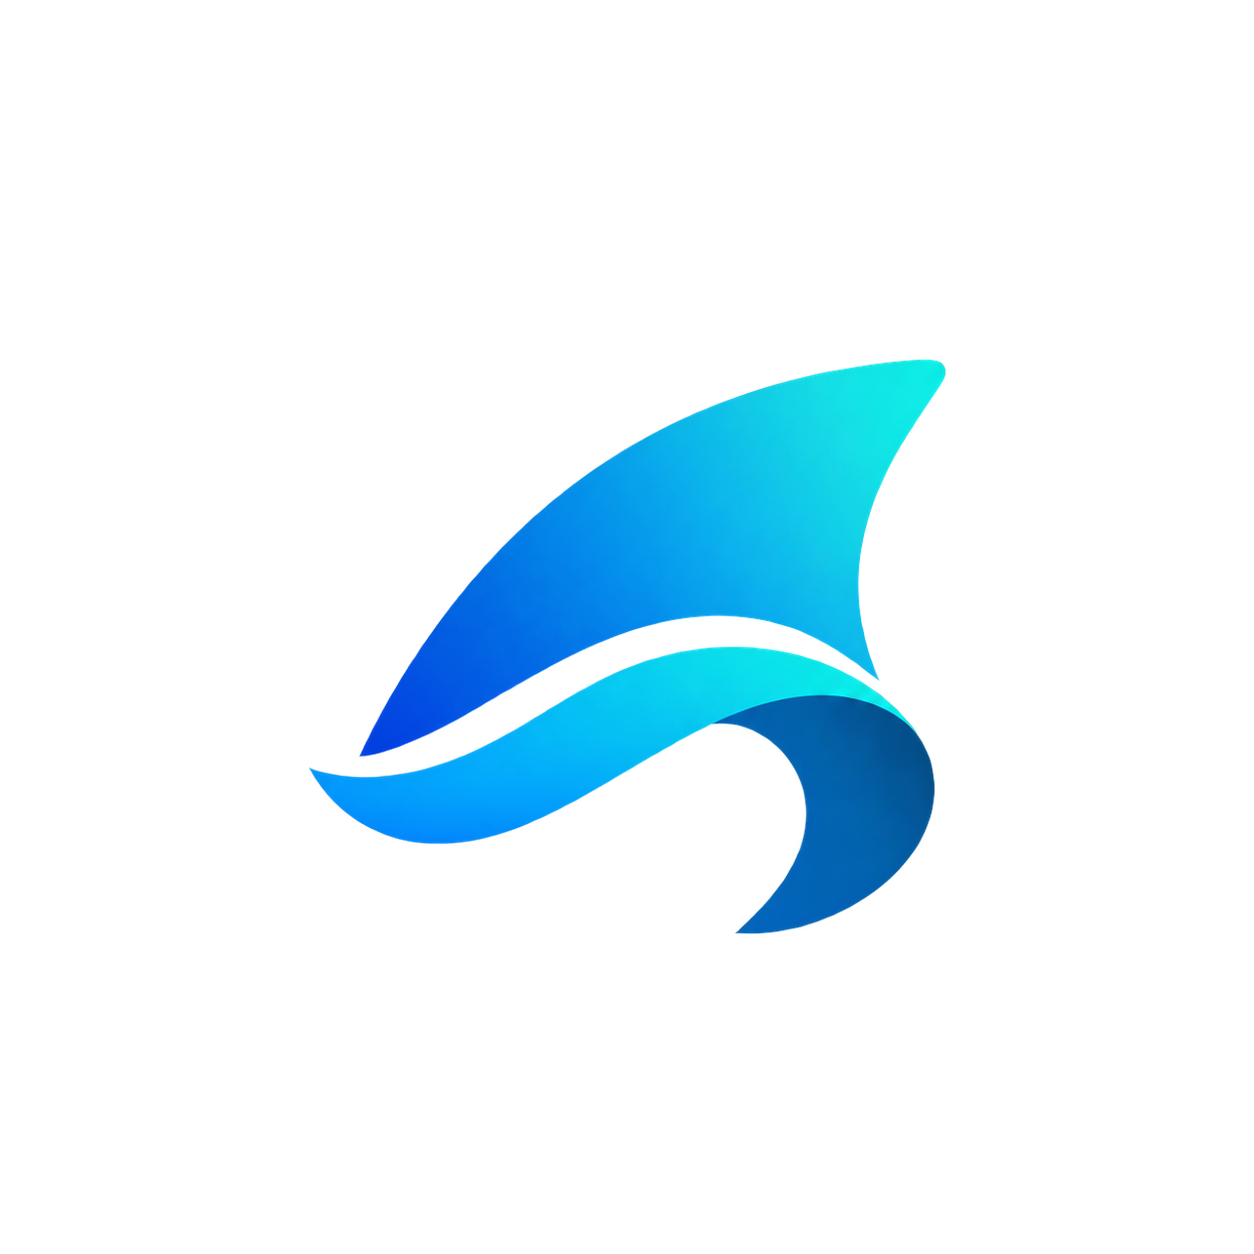
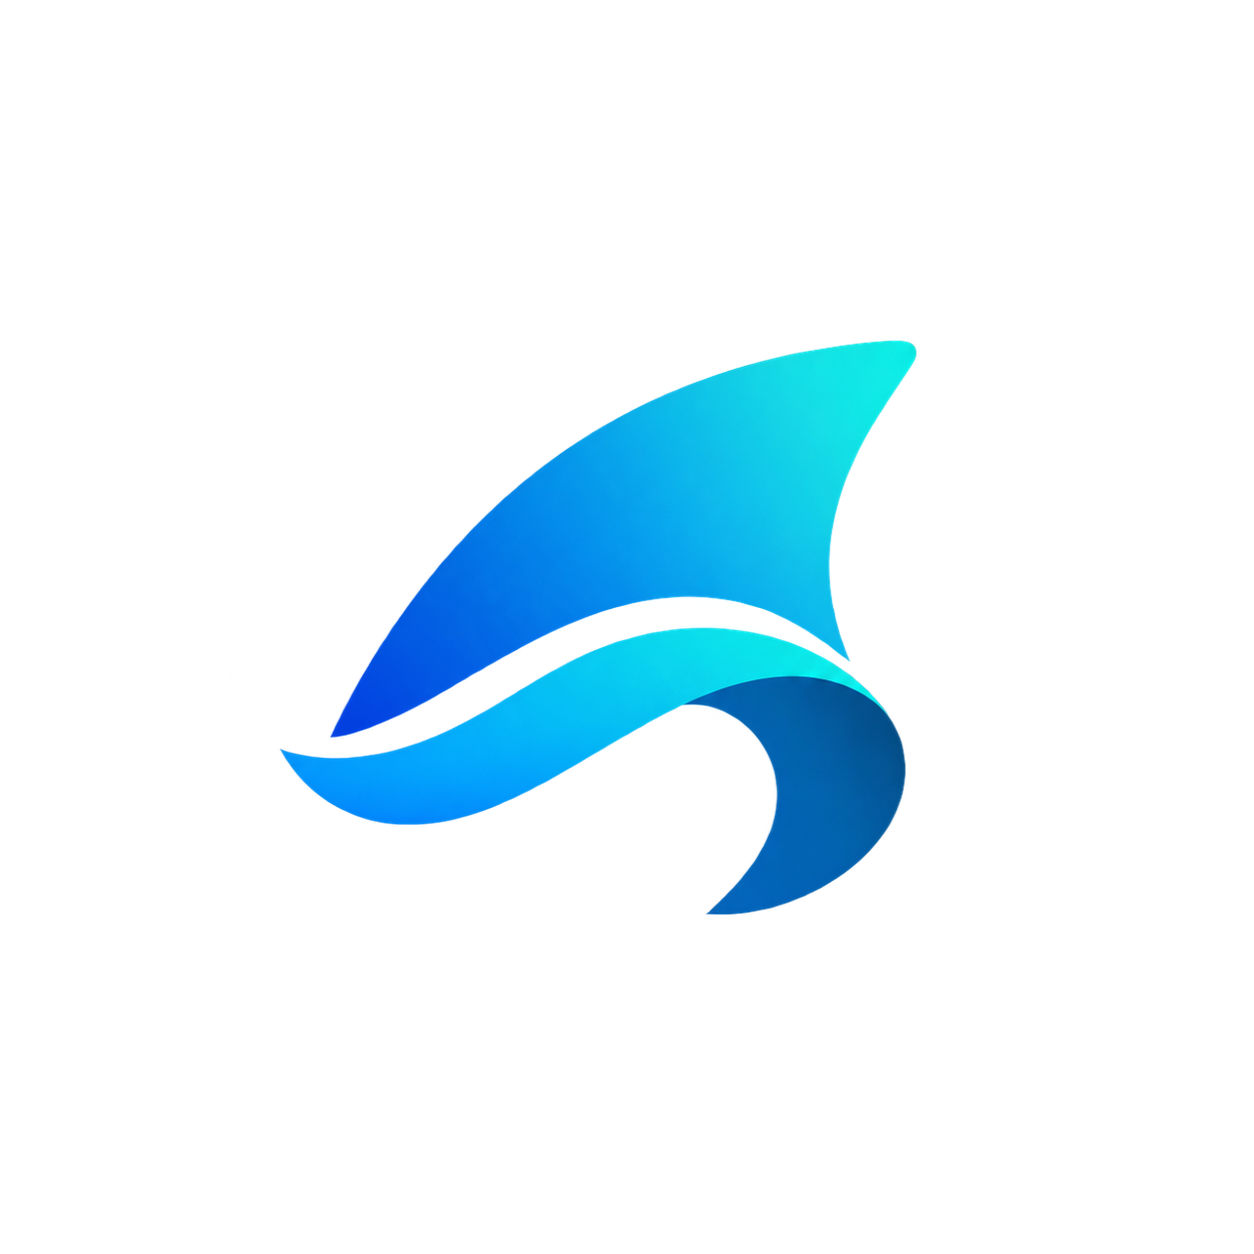
Brand: the fin optically centred in every image
The owner found the fin always felt off centre. Its box was centred, but
its tip is thin and its body and curl heavy, so its weight sat about
4.6% right of centre (9% in the favicon), and in turnfin.png it also sat
1.5% low. Every fin image is redrawn from the master with its optical
centre (midway between its box centre and its centre of mass, across)
and its box centre (down) in the middle, at each image's own size and
background: public/brand/turnfin.png, the favicon and Apple icon, and
Turnfin Me's icons. The favicon's fin is a little smaller (90% of the
square) so the shift does not clip its tip. The Academy site's icons
(on hold) are unchanged.

Changed region(s): [[0.2177, 0.2488, 0.7775, 0.7464]]

diff --git a/DESIGN.md b/DESIGN.md
@@ -145,7 +145,7 @@ Turnfin is one frame holding apps ([PRODUCT.md](PRODUCT.md)). The frame changes 
 ### Desktop (1100px and wider)
 
 - **Sidebar.** Floating glass (`panel`), inset 10px from the window, `sidebar-width` wide, with `radius-panel` corners.
-  - At the top, the fin and the Turnfin name (`title-3`, `label`) link to Home as one 44px-high target. The fin art fills the middle half of its square, so it is drawn past its 44px box to read at about 31px, there and wherever the fin shows (phone toolbar, pool deck, Help, sign-in). The tablet rail shows the fin alone, centred.
+  - At the top, the fin and the Turnfin name (`title-3`, `label`) link to Home as one 44px-high target. The fin art is optically centred in its square (its tip is thin, its body and curl heavy, so it sits midway between its box and its weight) and fills the middle half of it, so it is drawn past its 44px box to read at about 31px, there and wherever the fin shows (phone toolbar, pool deck, Help, sign-in). The tablet rail shows the fin alone, centred.
   - Then Home, an "Apps" heading, and the person's apps in the module bar's order. Symbols are `accent`, labels `subheadline` at 14px.
   - Each app may show a plain `label-2` count of what needs the person. No red badges in the sidebar.
   - The open app has a `glass-sel` fill, and a hover droplet glides between rows.

diff --git a/CHANGELOG.md b/CHANGELOG.md
@@ -8,6 +8,7 @@ Patch notes for everyone who uses Turnfin at the swim school, the desk and the o
 
 - **On a computer**, the top of the list of apps shows a larger fin with the name Turnfin beside it. Choose either to go Home.
 - **Everywhere else the fin shows** (a tablet's row of app symbols, the pool deck, Help and the sign-in page) it is larger too.
+- **The fin sits centred** in its space, in the app, on the sign-in page and as the icon on your browser tab and home screen. It used to lean right and low.
 
 ## 2.28.1 · 26 October 2026 · Easier to read in Tasks
 
